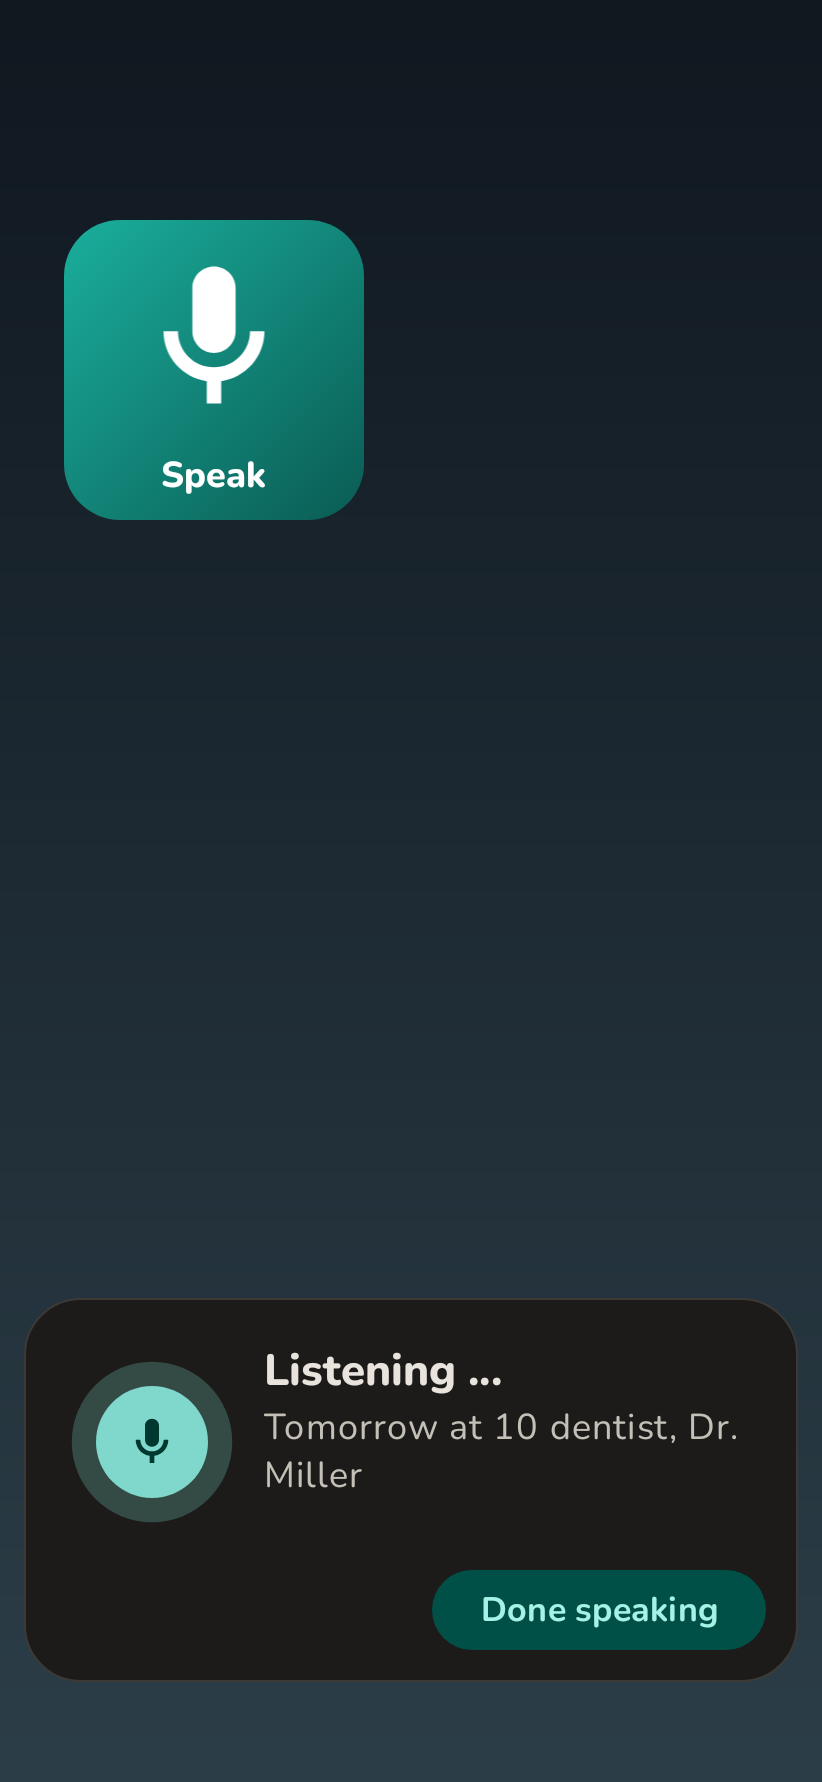
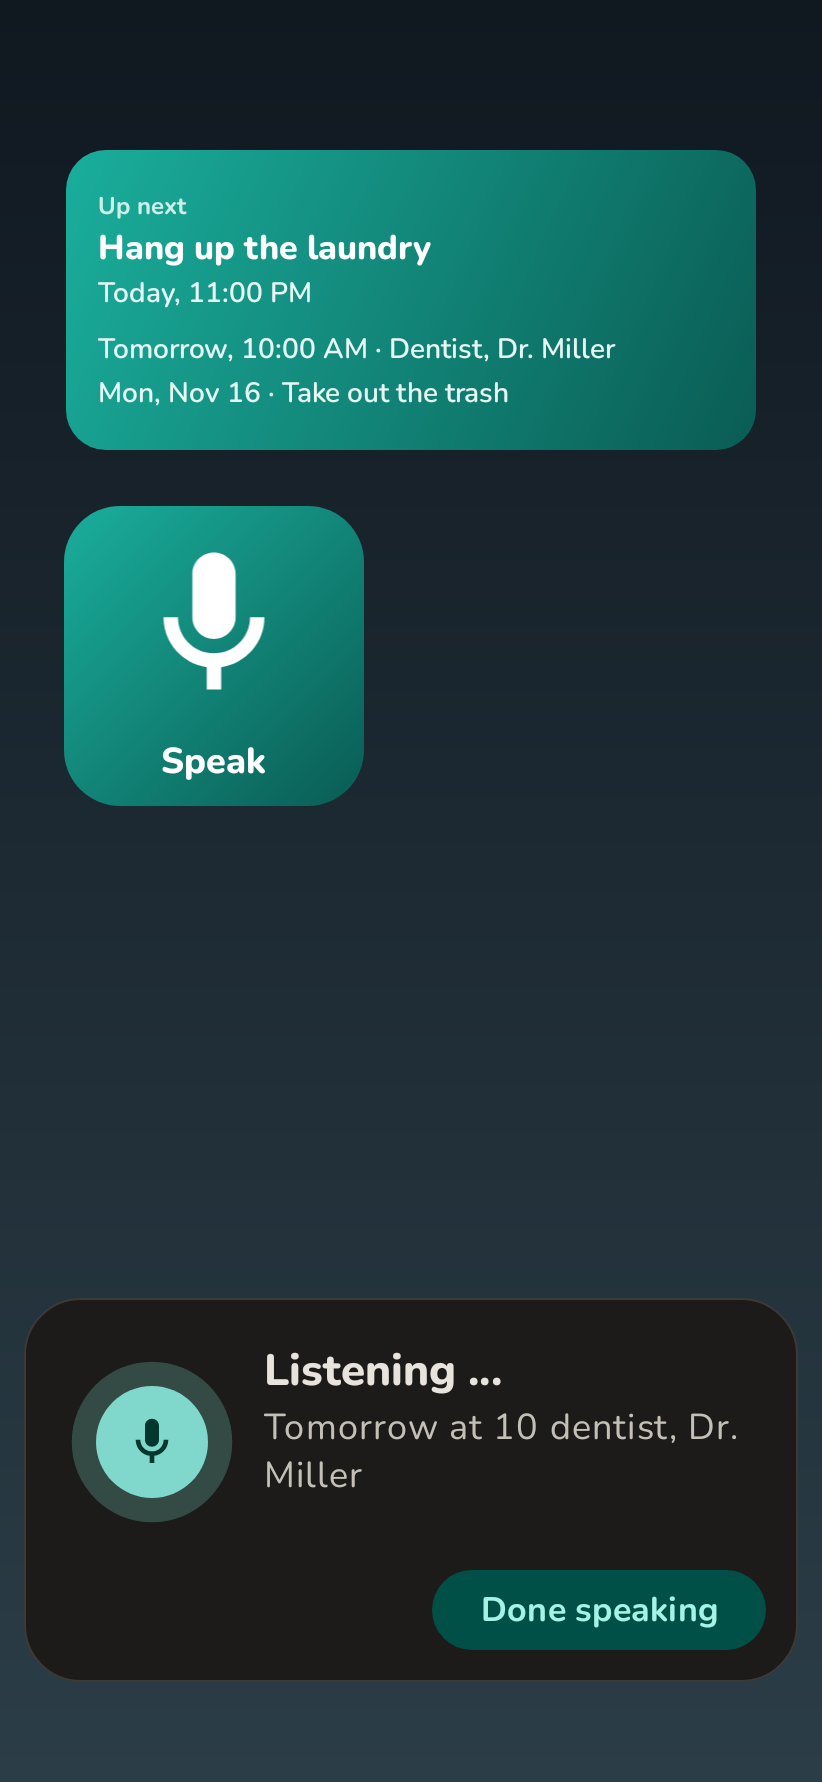
README: screenshots for 0.6.0
The home screen picture now shows the "Up next" widget above the speak
widget, a new picture shows a date changed by voice, and the list and
settings pictures are rendered again from the current app. All dark.

Claude-Session: https://claude.ai/code/session_01BeRUbzauKFCoRaM6PqiE45

Changed region(s): [[0.0608, 0.0617, 0.9428, 0.463]]

diff --git a/app/src/test/java/de/silvertax/merks/ScreenshotRender.kt b/app/src/test/java/de/silvertax/merks/ScreenshotRender.kt
@@ -194,13 +194,14 @@ class ScreenshotRender {
             Triple(NextWidget.Companion.Shape.LINE, 250 to 70, "9_next_line"),
             Triple(NextWidget.Companion.Shape.BLOCK, 250 to 110, "9_next_block"),
             Triple(NextWidget.Companion.Shape.LIST, 250 to 170, "9_next_list"),
+            Triple(NextWidget.Companion.Shape.LIST, 345 to 150, "9_next_list_wide"),
         )) {
             val v = NextWidget.views(app, next, now, shape).apply(app, null)
             val w = (size.first * density).toInt()
             val h = (size.second * density).toInt()
             v.measure(View.MeasureSpec.makeMeasureSpec(w, View.MeasureSpec.EXACTLY), View.MeasureSpec.makeMeasureSpec(h, View.MeasureSpec.EXACTLY))
             v.layout(0, 0, w, h)
-            shot(v, name, android.graphics.Color.parseColor("#2B3D47"))
+            shot(v, name)
         }
     }
 

diff --git a/README.md b/README.md
@@ -5,8 +5,9 @@ Tap once, say it, done. Merk's is an Android app for people who do not want to o
 A home screen widget starts listening right away. What you say becomes an appointment, a reminder or a note. Appointments go into your calendar, and the app reminds you in time. Merk's speaks English and German.
 
 <p>
-  <img src="docs/screenshots/en-speaking.png" width="200" alt="Speaking via the widget">
+  <img src="docs/screenshots/en-speaking.png" width="200" alt="Home screen with the Up next widget, speaking via the widget">
   <img src="docs/screenshots/en-main-dark.png" width="200" alt="List of entries">
+  <img src="docs/screenshots/en-changed.png" width="200" alt="Date changed by voice">
   <img src="docs/screenshots/en-settings-dark.png" width="200" alt="Settings">
 </p>
 
